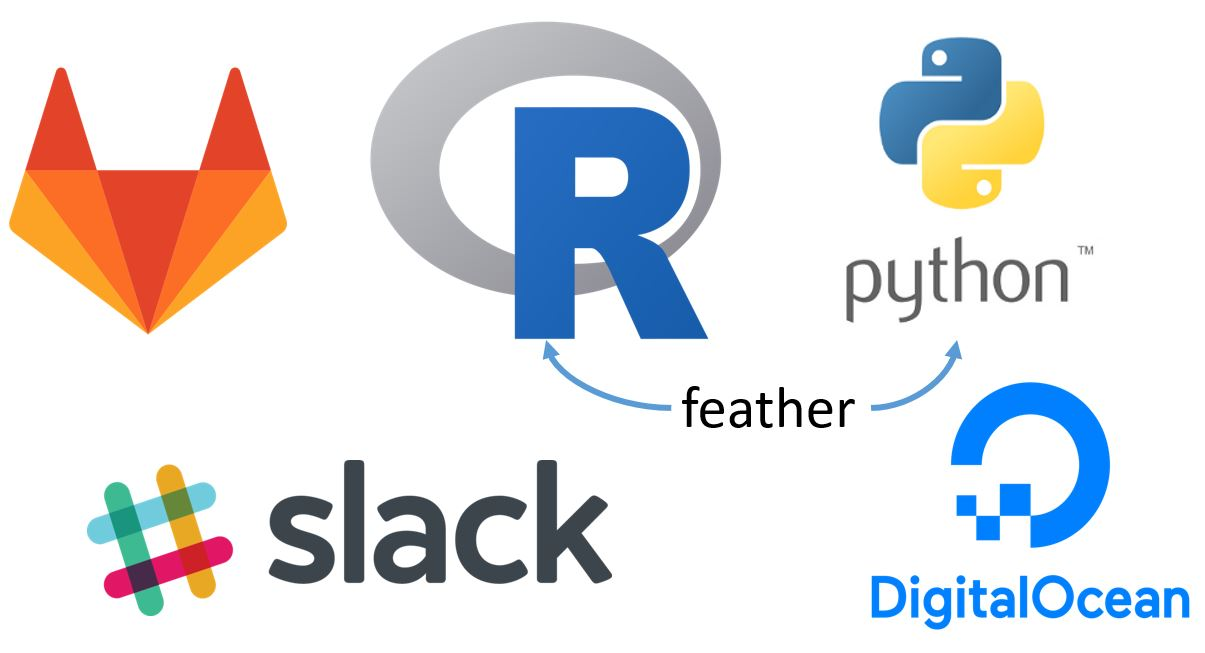
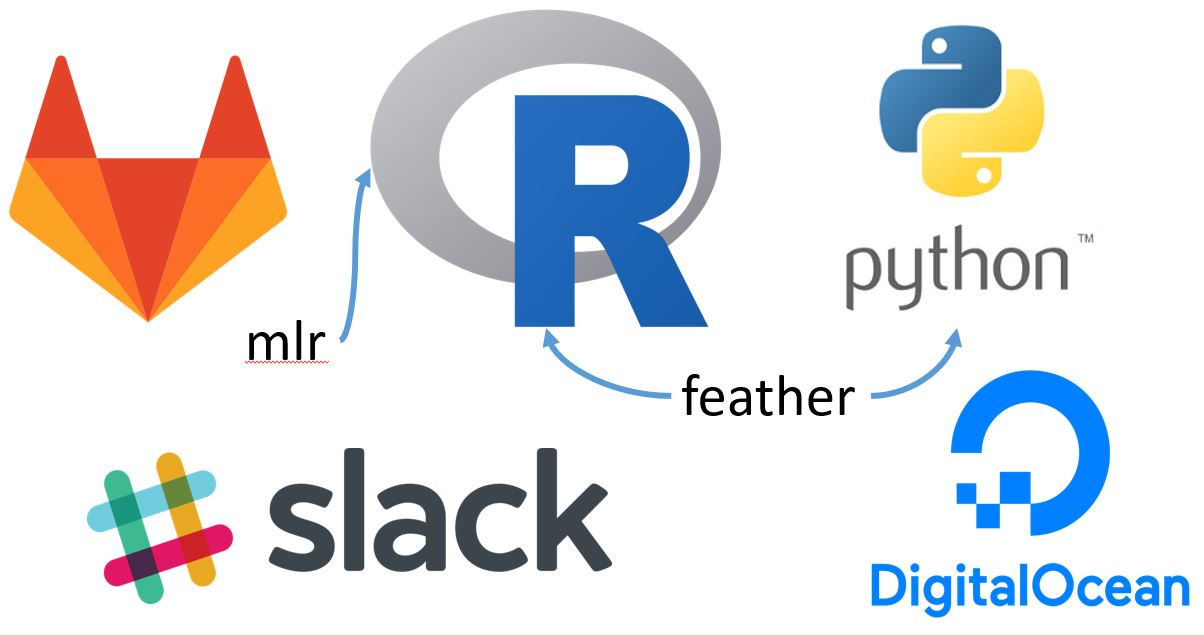
add mlr

diff --git a/kaggle-bathml-talk.html b/kaggle-bathml-talk.html
@@ -153,6 +153,7 @@
     |- library
     |- scripts
     |- output</code></pre>
+<p>Agree evalaluation framework. We used <a href="https://mlr-org.github.io/">mlr</a>.</p>
 </section>
 <section id="other-tech" class="slide level2">
 <h2>Other Tech</h2>
@@ -246,6 +247,15 @@
 </ul>
 </p>
 </div>
+</section>
+<section id="keep-in-touch" class="slide level2">
+<h2>Keep in touch</h2>
+<ul>
+<li><span class="citation" data-cites="dougashton">[Twitter @dougashton]</span>()</li>
+<li><a href="">GitHub - dougmet</a></li>
+<li>Email: <a href="mailto:dashton@mango-solutions.com">dashton@mango-solutions.com</a></li>
+</ul>
+<p>Talk to me about data science jobs/internships/placements</p>
 </section>
 
   <!--
